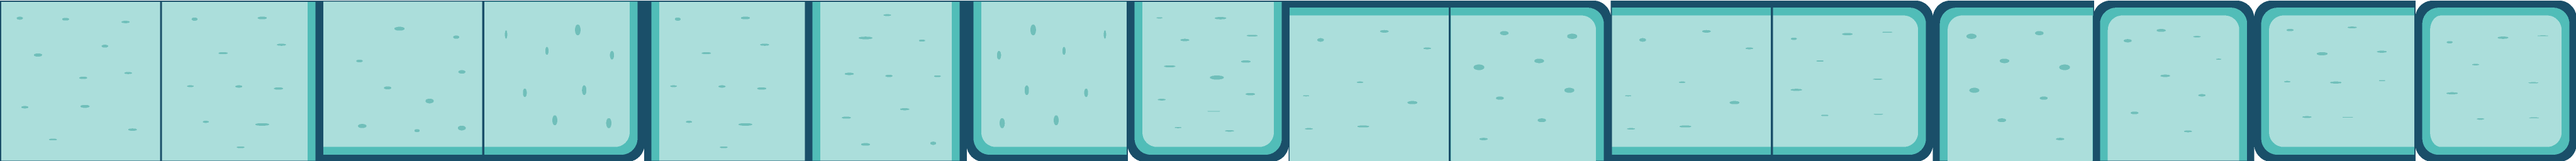
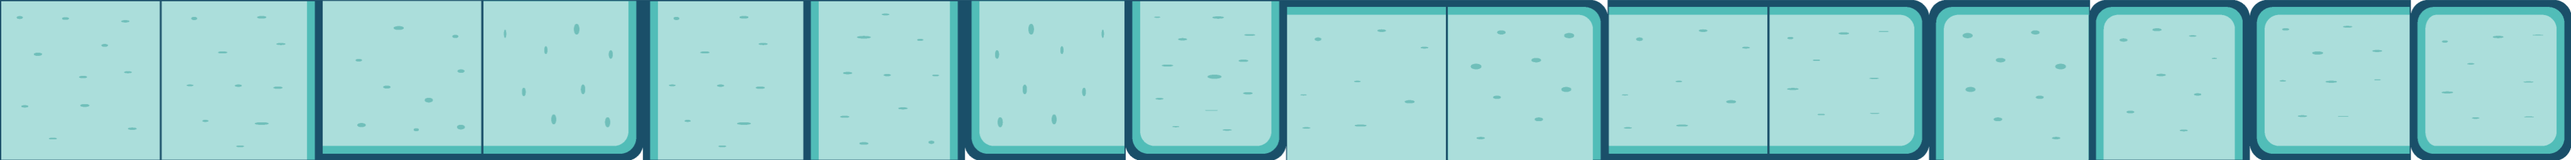
futbol al sur

Changed region(s): [[0.0, 0.0, 1.0, 0.0549], [0.4971, 0.0824, 0.9941, 0.1098], [0.9941, 0.0549, 1.0, 0.0824]]

diff --git a/src/escenas/FutbolRobots.ts b/src/escenas/FutbolRobots.ts
@@ -3,35 +3,55 @@
 /// <reference path="../actores/CuadriculaMultiple.ts"/>
 /// <reference path = "EstadosDeEscena.ts" />
 
-class FutbolRobots  extends EscenaActividad{
-  automata : ActorAnimado;
+class FutbolRobots extends EscenaActividad {
+  automata: ActorAnimado;
   fondo;
-  cuadricula : CuadriculaMultiple;
+  cuadricula: CuadriculaMultiple;
   cantPateadas;
   cantidadFilas;
 
   iniciar() {
-      this.fondo = new Fondo('fondos.futbolRobots.png',0,0);
-      this.cantidadFilas=8;
+    this.fondo = this.obtenerFondo()
+    this.cantidadFilas = 8;
 
-      this.cuadricula = new CuadriculaMultiple(
-        new DefinidorColumnasRandom(this.cantidadFilas,6),
-        0,-50,
-        {separacionEntreCasillas: 5},
-        {grilla:'casilla.futbolRobots2.png', alto:40,ancho:40})
-      this.cuadricula.cambiarImagenInicio('casilla.futbolRobots1.png');
+    this.cuadricula = new CuadriculaMultiple(
+      new DefinidorColumnasRandom(this.cantidadFilas, 6),
+      0, -50,
+      { separacionEntreCasillas: 5 },
+      { grilla: this.imagenCasillas(), alto: 40, ancho: 40 })
+    this.cuadricula.cambiarImagenInicio(this.imagenCasillasInicio());
 
-      this.automata = new RobotAnimado(0, 0);
-      this.cuadricula.agregarActor(this.automata,0,0);
-      var casilla = this.cuadricula.casilla(0, 0);
-      this.automata.escalarAAlto(3.5 * casilla.alto);
-      this.automata.abajo = casilla.y - (0.25 * casilla.alto);
-      this.automata.radio_de_colision = this.automata.alto / 2.5;
+    this.automata = this.obtenerAutomata()
+    this.cuadricula.agregarActor(this.automata, 0, 0);
+    this.automata.radio_de_colision = this.automata.alto / 2.5;
+    
+    for (var fila = 0; fila < this.cantidadFilas; ++fila) {
+      this.cuadricula.agregarActor(new PelotaAnimada(0, 0), fila, this.cuadricula.dameIndexUltimaPosicion(fila))
+    };
+    this.ajustarAutomata()
+    
+    this.estado = new EstadoParaContarBuilder(this, 'patear', this.cantidadFilas).estadoInicial();
+  }
 
-      for (var fila=0;fila<this.cantidadFilas;++fila){
-        this.cuadricula.agregarActor(new PelotaAnimada(0,0),fila,this.cuadricula.dameIndexUltimaPosicion(fila))
-      };
+  ajustarAutomata() {
+    var casilla = this.cuadricula.casilla(0, 0);
+    this.automata.escalarAAlto(3.5 * casilla.alto);
+    this.automata.abajo = casilla.y - (0.25 * casilla.alto);
+  }
 
-      this.estado = new EstadoParaContarBuilder(this, 'patear', this.cantidadFilas).estadoInicial();
-   }
+  obtenerAutomata() {
+    return new RobotAnimado(0, 0);
+  }
+
+  obtenerFondo() {
+    return new Fondo('fondos.futbolRobots.png', 0, 0);
+  }
+
+  imagenCasillas() {
+    return 'casilla.futbolRobots2.png'
+  }
+
+  imagenCasillasInicio() {
+    return 'casilla.futbolRobots1.png'
+  }
 }

diff --git a/src/escenas/FutbolAlSur.ts b/src/escenas/FutbolAlSur.ts
@@ -1,0 +1,39 @@
+/// <reference path = "FutbolRobots.ts" />
+
+class FutbolAlSur extends FutbolRobots {
+
+  static clasesDeActoresInvolucrados(): typeof ActorAnimado[] {
+    return [Chuy, PelotaAnimada];
+  };
+
+  static imagenesAdicionales(): string[] {
+    return ['casilla.futbolChuy1.png', 'casilla.futbolChuy2.png'].concat(Obstaculo.imagenesPara('chuy'));
+  }
+
+  static pathFondo(): string {
+    return 'fondo.chuy.png';
+  }
+
+  ajustarAutomata() {
+    this.automata.traer_al_frente()
+		this.automata.escala *= this.escalaSegunCuadricula(3.3);
+		this.automata.setY(this.automata.getY() + this.automata.getAlto() / 4);
+    this.automata.setX(this.automata.getX() + 10)
+  }
+
+  obtenerAutomata() {
+    return new Chuy();
+  }
+
+  obtenerFondo() {
+    return new Fondo('fondo.chuy.png', 0, 0);
+  }
+
+  imagenCasillas() {
+    return 'casilla.futbolChuy1.png'
+  }
+
+  imagenCasillasInicio() {
+    return 'casilla.futbolChuy2.png'
+  }
+}
